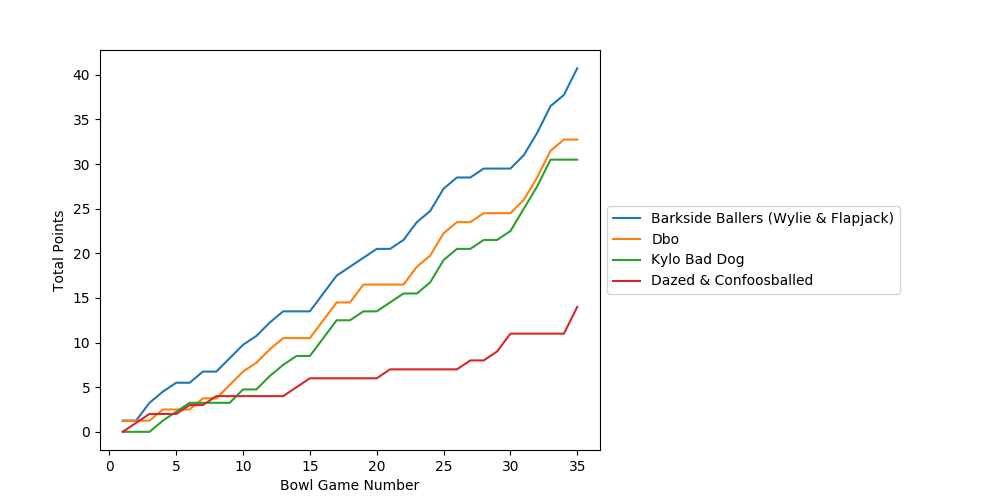
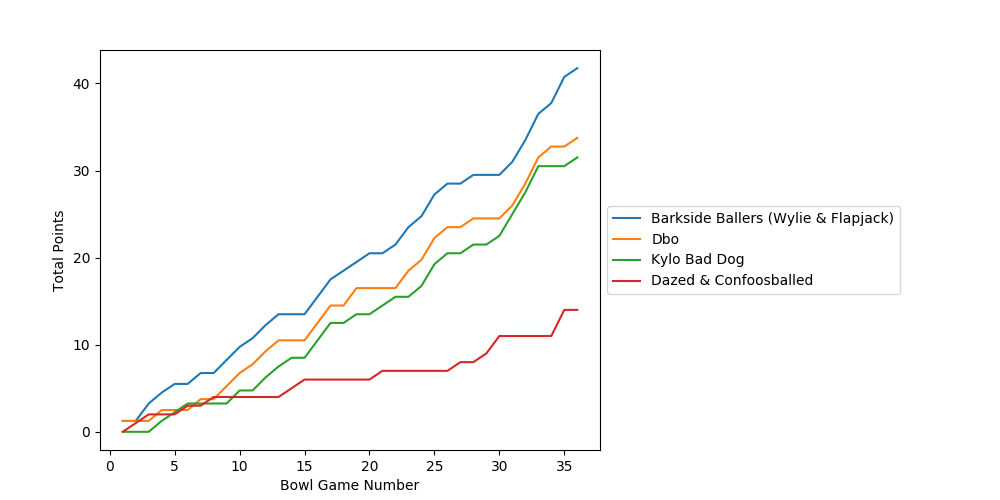
12-30 update 3

diff --git a/bowl_pool/2023-2024/rankings.html b/bowl_pool/2023-2024/rankings.html
@@ -364,30 +364,30 @@ ul.auto-toc {
 
 
 <div class="line-block">
-<div class="line"><em>Last updated:  2023-12-30 18:15:44</em></div>
-<div class="line"><em>Last bowl scored:  Orange Bowl (Georgia vs. Florida State)</em></div>
+<div class="line"><em>Last updated:  2023-12-30 18:58:00</em></div>
+<div class="line"><em>Last bowl scored:  Arizona Bowl (Toledo vs. Wyoming)</em></div>
 </div>
 <div class="line-block">
-<div class="line">1. <strong>Barkside Ballers (Wylie &amp; Flapjack) 40.75</strong></div>
-<div class="line">2. <strong>Dbo 32.75</strong></div>
-<div class="line">3. <strong>Kylo Bad Dog 30.5</strong></div>
-<div class="line">4. bugabugaroo 30.0</div>
-<div class="line">5. Sascha Picks Dogs 29.75</div>
-<div class="line">6. SEC Shipley 29.25</div>
-<div class="line">6. The New Guy 29.25</div>
-<div class="line">8. #MamaBear 28.0</div>
-<div class="line">9. em&amp;em 26.5</div>
-<div class="line">10. GlamKam 25.75</div>
-<div class="line">11. Manda Panda 24.5</div>
+<div class="line">1. <strong>Barkside Ballers (Wylie &amp; Flapjack) 41.75</strong></div>
+<div class="line">2. <strong>Dbo 33.75</strong></div>
+<div class="line">3. <strong>Kylo Bad Dog 31.5</strong></div>
+<div class="line">4. bugabugaroo 31.0</div>
+<div class="line">5. Sascha Picks Dogs 30.75</div>
+<div class="line">6. SEC Shipley 30.25</div>
+<div class="line">7. The New Guy 29.25</div>
+<div class="line">8. #MamaBear 29.0</div>
+<div class="line">9. em&amp;em 27.5</div>
+<div class="line">10. GlamKam 26.75</div>
+<div class="line">11. Manda Panda 25.5</div>
 <div class="line">12. MamaDAWG 23.75</div>
-<div class="line">13. COOKIES 22.5</div>
-<div class="line">14. LadyLonghorn 21.75</div>
-<div class="line">15. Bear-in-Law 21.25</div>
-<div class="line">16. Aggie Austin 20.75</div>
-<div class="line">17. Badgers Rock! 20.25</div>
-<div class="line">17. WD50 20.25</div>
-<div class="line">19. Big 12 Bibby 18.75</div>
-<div class="line">20. Rando Cal Rece Ian 18.5</div>
+<div class="line">13. COOKIES 23.5</div>
+<div class="line">14. LadyLonghorn 22.75</div>
+<div class="line">15. Bear-in-Law 22.25</div>
+<div class="line">16. Aggie Austin 21.75</div>
+<div class="line">17. WD50 21.25</div>
+<div class="line">18. Badgers Rock! 20.25</div>
+<div class="line">19. Big 12 Bibby 19.75</div>
+<div class="line">20. Rando Cal Rece Ian 19.5</div>
 <div class="line">21. Sir Fluffy McFlufferson 18.25</div>
 <div class="line">22. <strong>Dazed &amp; Confoosballed 14.0</strong></div>
 </div>

diff --git a/bowl_pool/2023-2024/results.html b/bowl_pool/2023-2024/results.html
@@ -1404,33 +1404,61 @@ ul.auto-toc {
 <td>3.0<sup>*</sup></td>
 <td>3.0<sup>*</sup></td>
 </tr>
+<tr><td>36</td>
+<td>Arizona Bowl</td>
+<td>Toledo</td>
+<td>Wyoming</td>
+<td>1.5</td>
+<td>1.0</td>
+<td>1.0</td>
+<td>0.0</td>
+<td>1.0</td>
+<td>1.0</td>
+<td>1.0</td>
+<td>1.0</td>
+<td>1.0</td>
+<td>0.0</td>
+<td>1.0</td>
+<td>1.0</td>
+<td>1.0</td>
+<td>1.0</td>
+<td>1.0</td>
+<td>0.0</td>
+<td>1.0</td>
+<td>1.0</td>
+<td>1.0</td>
+<td>1.0</td>
+<td>0.0</td>
+<td>0.0</td>
+<td>1.0</td>
+</tr>
 <tr><td><strong>Totals</strong></td>
 <td>&nbsp;</td>
 <td>&nbsp;</td>
 <td>&nbsp;</td>
 <td>&nbsp;</td>
-<td><strong>28.0</strong></td>
-<td><strong>20.75</strong></td>
-<td><strong>20.25</strong></td>
-<td><strong>40.75</strong></td>
-<td><strong>21.25</strong></td>
-<td><strong>18.75</strong></td>
-<td><strong>30.0</strong></td>
-<td><strong>22.5</strong></td>
-<td><strong>14.0</strong></td>
-<td><strong>32.75</strong></td>
-<td><strong>26.5</strong></td>
-<td><strong>25.75</strong></td>
-<td><strong>30.5</strong></td>
+<td><strong>29.0</strong></td>
 <td><strong>21.75</strong></td>
+<td><strong>20.25</strong></td>
+<td><strong>41.75</strong></td>
+<td><strong>22.25</strong></td>
+<td><strong>19.75</strong></td>
+<td><strong>31.0</strong></td>
+<td><strong>23.5</strong></td>
+<td><strong>14.0</strong></td>
+<td><strong>33.75</strong></td>
+<td><strong>27.5</strong></td>
+<td><strong>26.75</strong></td>
+<td><strong>31.5</strong></td>
+<td><strong>22.75</strong></td>
 <td><strong>23.75</strong></td>
-<td><strong>24.5</strong></td>
-<td><strong>18.5</strong></td>
-<td><strong>29.75</strong></td>
-<td><strong>29.25</strong></td>
+<td><strong>25.5</strong></td>
+<td><strong>19.5</strong></td>
+<td><strong>30.75</strong></td>
+<td><strong>30.25</strong></td>
 <td><strong>18.25</strong></td>
 <td><strong>29.25</strong></td>
-<td><strong>20.25</strong></td>
+<td><strong>21.25</strong></td>
 </tr>
 </tbody>
 </table>

diff --git a/bowl_pool/2023-2024/index.html b/bowl_pool/2023-2024/index.html
@@ -365,8 +365,8 @@ ul.auto-toc {
 
 <p><strong>2023-2024 Bowl Pool</strong></p>
 <div class="line-block">
-<div class="line"><em>Last updated:  2023-12-30 18:15:45</em></div>
-<div class="line"><em>Last bowl scored:  Orange Bowl (Georgia vs. Florida State)</em></div>
+<div class="line"><em>Last updated:  2023-12-30 18:58:00</em></div>
+<div class="line"><em>Last bowl scored:  Arizona Bowl (Toledo vs. Wyoming)</em></div>
 </div>
 <ul class="simple">
 <li><a class="reference external" href="rankings.html">Rankings</a> (<a class="reference external" href="rankings.csv">csv</a>)</li>
